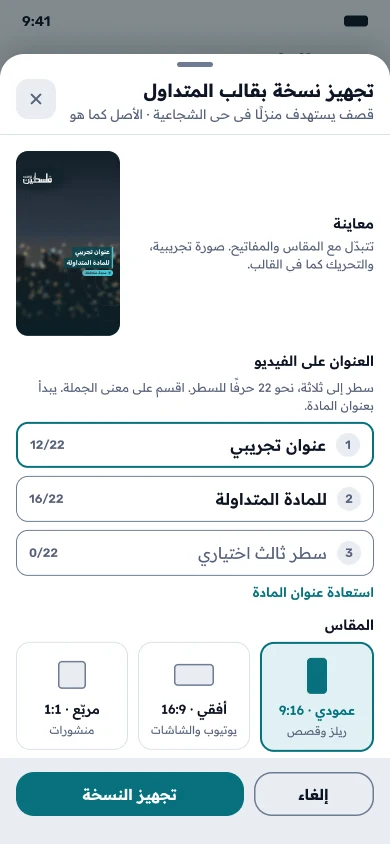
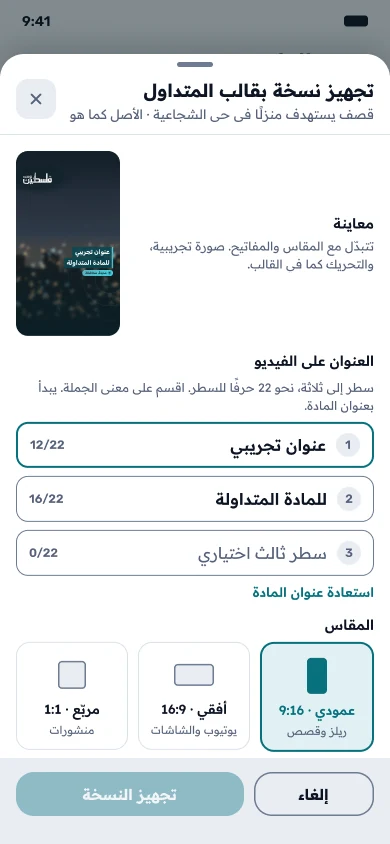
design: align copy-request frames with ADR 0091 and its contract
- The label is a required choice with no default; "Prepare copy" stays
  disabled until it is chosen.
- Three states as in MaterialRender (requested, ready, failed), failure
  reasons from the enum, and a download link valid for 10 minutes.
- New C11/C12 boards: blocked action and error states by error code.
- Spec: renders come from GET /materials/{id}/renders, the counter
  counts code points, and the strings table covers the new texts.

Claude-Session: https://claude.ai/code/session_01HY7py4Kwox1KypVxZuFGKP

Changed region(s): [[0.0308, 0.8934, 0.6462, 0.9858]]

diff --git a/docs/design/specs/web-v2.md b/docs/design/specs/web-v2.md
@@ -138,47 +138,87 @@
 
 ## نسخة بقالب المتداول (صفحة Figma `Web · طلب نسخة بقالب المتداول`)
 
-**مقترح يتوقف على ADR 0091 وتغيير العقد معه.** قرار المالك (2026-11-02): «نعم نربطه بخط الإنتاج». القالب نفسه موصوف في `video-template.md`، وهذا القسم يرسم طلبه من الويب وحالاته. أسطر العنوان والمعاينة في الإطارات نصّ تجريبي («عنوان تجريبي / للمادة المتداولة»، «مدينة، محافظة») لا عنوان المادة الحقيقي، لأن المعاينة تحمل الشعار. الطلب يرسله فرد من الطاقم يدويًا: لا يُصنع آليًا، وليس محرّرًا. الأسماء والعناوين في الإطارات عيّنات.
+**مقترح يطابق ADR 0091 وعقده (#469).** قرار المالك (2026-11-02): «نعم نربطه بخط الإنتاج». القالب نفسه في `video-template.md`، وهذا القسم يرسم طلبه من الويب وحالاته.
+
+- **من يطلب:** أدوار `supervisor` و`producer` و`editor_in_chief` ضمن نطاقها.
+- **كيف:** طلب صريح من الطاقم. لا يُطلق آليًا، وليس محرّرًا.
+- **النصوص في الإطارات:** أسطر العنوان والمعاينة نصّ تجريبي («عنوان تجريبي / للمادة المتداولة»، «مدينة، محافظة»)، لا عنوان المادة الحقيقي، لأن المعاينة تحمل الشعار.
 
 | الرمز | الشاشة | اللقطة |
 |---|---|---|
-| C1 | W2 وفيها بطاقة «الملفات» بالحالات الأربع، وزرّ «تجهيز نسخة بقالب المتداول» | `c1-material-copies` |
-| C2 | نافذة الطلب فوق W2 | `c2-request-dialog` |
-| C3 | النافذة، داكن | `c3-request-dialog-dark` |
+| C1 | W2 وفيها بطاقة «الملفات» بالحالات الثلاث، وزرّ «تجهيز نسخة بقالب المتداول» | `c1-material-copies` |
+| C2 | نافذة الطلب فوق W2، والوسم لم يُختر بعد فالإرسال معطَّل | `c2-request-dialog` |
+| C3 | النافذة، داكن، و«بلا وسم» مختار | `c3-request-dialog-dark` |
 | C4 | النافذة، إنجليزية فاتحة | `c4-request-dialog-en` |
 | C5 | C1 داكن | `c5-material-copies-dark` |
 | C6 | C1 إنجليزية داكنة | `c6-material-copies-en-dark` |
 | C7 | M2 على الهاتف ومعها بطاقة الملفات والزرّ | `c7-material-phone` |
 | C8 | ورقة الطلب من أسفل الشاشة | `c8-request-sheet-phone` |
-| C9 | الورقة بعد التمرير، داكن | `c9-request-sheet-phone-dark` |
+| C9 | الورقة بعد التمرير، داكن، والوسم مختار | `c9-request-sheet-phone-dark` |
 | C10 | الورقة، إنجليزية فاتحة | `c10-request-sheet-phone-en` |
+| C11 | حالات المنع والأخطاء | `c11-errors` |
+| C12 | حالات المنع والأخطاء، إنجليزية | `c12-errors-en` |
 
-**الزرّ** في آخر بطاقة «الملفات» (Outline)، تحت النسخ التي طُلبت. لا يدخل «الخطوة التالية»، لأن تلك البطاقة لسير المادة التحريري، والنسخة طلب جانبي لا يغيّر حالة المادة.
+**الزرّ** في آخر بطاقة «الملفات» (Outline)، تحت النسخ التي طُلبت. لا يدخل «الخطوة التالية»، لأن تلك البطاقة لسير المادة التحريري، والنسخة طلب جانبي لا يغيّر شيئًا من الحالات الثلاث. وحين لا تُتاح النسخة لا يختفي الزرّ: يظهر معطَّلًا، وتحته السبب (C11).
 
-**النافذة** (760 عرضًا على سطح المكتب، وورقة من أسفل الشاشة على الهاتف):
+**النافذة** (760 عرضًا على سطح المكتب، وورقة من أسفل الشاشة على الهاتف). حقولها هي `MaterialRenderRequest`:
 
-- **العنوان على الفيديو:** من سطر إلى ثلاثة، ولكل سطر عدّاد `17/22`. يبدأ بعنوان المادة مقسومًا عند حدود الكلمات، والمحرّر يعيد القسمة على المعنى. «استعادة عنوان المادة» تعيد القسمة الأولى. فوق 22 حرفًا يصير العدّاد بلون الخطر، ويتعطّل «تجهيز النسخة» حتى يُصلَح السطر، لأن السطر الطويل يفيض عن لوحه في القالب. حالة الفيض قاعدة غير مرسومة.
-- **المقاس:** ثلاث بطاقات، في كل منها شكل المقاس مصغّرًا: عمودي 9:16 (الافتراضي)، وأفقي 16:9، ومربّع 1:1. الفيديو يدخل الإطار كاملًا، والفراغ حوله بخلفية مموّهة من الفيديو نفسه، فلا قصّ.
-- **المعاينة:** القالب مصغّرًا بالعنوان والمكان المختارين، ويتبدّل مع المقاس والمفاتيح. الخلفية صورة تجريبية، لا إطار من المادة: المادة حسّاسة، ومعاينتها في النافذة مسار عرض جديد لا يلزم.
-- **إظهار المكان** (مشغَّل افتراضيًا) يكتب ما سيظهر، مثل «مدينة، محافظة». المصدر حقلا المادة `city` و`governorate`، فلا إحداثيات ولا تفصيل أدقّ (`CLAUDE.md` §5). وإن غاب أحد الحقلين يُعطَّل المفتاح، ويقول السطر تحته ما الناقص.
-- **وسم «مشاهد متداولة»** يقول للمشاهد إن الفيديو ليس من تصوير الشبكة، فيبدأ مشغَّلًا للمادة المتداولة وحدها. والمادة في العيّنة من مراسل، فهو مطفأ، والسطر تحته يقول السبب. **فجوة عقد:** معرفة أن المادة «متداولة» تحتاج حقلًا يقولها. إن لم يوجد، يبدأ المفتاح مطفأً ويقرّر المحرّر.
-- **ملاحظتان ثابتتان:**
-  - «الأصل لا يُمسّ: النسخة ملف جديد في ملفات المادة.»
-  - وللمادة الحسّاسة ملاحظة تحذير: «تُجهَّز محليًا وتبقى داخلية، وتمرّ بالبوابات نفسها.» النسخة ترث حساسية المادة وحقوقها، ولا تذهب إلى مزوّد خارجي (`CLAUDE.md` §5).
-- **الأفعال:** «تجهيز النسخة» (Solid) و«إلغاء». في العربية يقع الفعل الأول يسارًا، عكس ترتيبه في الإنجليزية. وسطر يقول: «يستغرق التجهيز نحو دقيقة، وتصلك إشارة حين تجهز.»
+- **العنوان على الفيديو (`title_lines`):**
+  - من سطر إلى ثلاثة، ولكل سطر عدّاد `12/22`.
+  - العدّاد يعدّ نقاط الترميز (`Array.from(line).length`)، كما يعدّها الخادم، لا وحدات UTF-16.
+  - تملأ الواجهة الحقول ابتداءً من عنوان المادة مقسومًا على الكلمات، والطاقم يعيد القسمة على المعنى. والخادم لا يقسم شيئًا.
+  - «استعادة عنوان المادة» تعيد القسمة الأولى.
+  - فوق 22 يصير العدّاد والإطار بلون الخطر، ويتعطّل «تجهيز النسخة» (C11). وتُرفض محارف الاتجاه والتحكم والمسافات في الطرفين بالقاعدة نفسها، فتُنظَّف عند اللصق.
+- **المقاس (`aspect`):** ثلاث بطاقات بشكل المقاس مصغّرًا: `vertical` 9:16 (الافتراضي)، و`horizontal` 16:9، و`square` 1:1. الفيديو يدخل الإطار كاملًا، والفراغ حوله بخلفية مموّهة من الفيديو نفسه، فلا قصّ.
+- **المعاينة:** القالب مصغّرًا بالعنوان والمكان، ويتبدّل مع المقاس والاختيارات. الخلفية صورة تجريبية، لا إطار من المادة، لأن المادة قد تكون حسّاسة، ولا يلزم مسار عرض جديد لها.
+- **إظهار المكان (`show_location`)** مشغَّل افتراضيًا، والسطر تحته يكتب ما سيظهر. النصّ يبنيه الخادم من حقلَي المادة (`city` و`governorate`)، فلا إحداثيات ولا تفصيل أدقّ (`CLAUDE.md` §5). وإن زاد على 44 حرفًا (`422 render_location_unusable`) يُعطَّل المفتاح، ويقول السبب (C11).
+- **وسم «مشاهد متداولة» (`label`): اختيار إلزامي بلا افتراض:**
+  - خياران لا يُختار أيٌّ منهما سلفًا: «بوسم «مشاهد متداولة»» (`circulated_footage`) و«بلا وسم» (`none`).
+  - و«تجهيز النسخة» معطَّل حتى يُختار أحدهما.
+  - الخطأ ممكن في الاتجاهين: وسم ما صوّرته الشبكة بأنه متداول، أو تقديم مشاهد طرف ثالث كأنها من تصوير الشبكة. والاختيار يُسجَّل مع الطالب.
+- **ملاحظة واحدة:** «الأصل لا يُمسّ: النسخة ملف جديد». وللمادة الحسّاسة: «تُجهَّز النسخة محليًا وتمرّ بالبوابات نفسها». النسخة ترث حساسية المادة وحقوقها، ولا تذهب إلى مزوّد خارجي، والنشر عبر بوابة ADR 0084 كما هي.
+- **الأفعال:** «تجهيز النسخة» (Solid) و«إلغاء». في العربية يقع الفعل الأول يسارًا، عكس ترتيبه في الإنجليزية. والسطر بجانبهما يقول ما ينقص قبل الإرسال («اختر الوسم أولًا»)، ثم «التجهيز نحو دقيقة، وتصلك إشارة حين تجهز».
 
-**الحالات في بطاقة «الملفات»:** تحت الأصل والنسخة الخفيفة مجموعة «نسخ بقالب المتداول» بوسم «داخلية» (موروث من المادة). كل نسخة صفّ فيه شكل مقاسها، وكل حالة كلمة وأيقونة ولون معًا.
+**الحالات في بطاقة «الملفات»:**
 
-| الحالة | الوسم | ما يقوله الصفّ | الفعل |
+- النسخ لا تأتي من `Material.files`، بل من `GET /materials/{id}/renders`. وتُعرض تحت الأصل والنسخة الخفيفة في مجموعة «نسخ بقالب المتداول»، بوسم «داخلية» موروث من المادة.
+- كل نسخة صفّ فيه شكل مقاسها، وكل حالة كلمة وأيقونة ولون معًا.
+
+| `state` | الوسم | ما يقوله الصفّ | الفعل |
 |---|---|---|---|
-| مطلوبة | `muted` «مطلوبة» | «في الطابور، طُلبت 14:56» | لا شيء |
-| تُجهَّز | `brand` «تُجهَّز» | «بدأت 14:55»، وشريط تقدّم يمتلئ من جهة البداية | لا شيء |
-| جاهزة | `ok` «جاهزة» | «جاهزة 14:52 · رابط موقَّع صالح ساعة» | «تنزيل»: يطلب رابطًا موقَّعًا جديدًا عند النقر، فلا يُخزَّن رابط في الصفحة |
-| تعذّرت | `danger` «تعذّرت» | السبب بكلمات، مثل «تعذّر فكّ ترميز المقطع 3. أعِد الطلب أو استبعده.» | «إعادة الطلب» بالمعاملات نفسها |
+| `requested` | `muted` «مطلوبة» | «في الطابور أو قيد التجهيز، طُلبت 14:56» | لا شيء |
+| `ready` | `ok` «جاهزة» | «جاهزة 14:52 · رابط التنزيل صالح 10 دقائق» | «تنزيل»: يطلب `download-url` عند النقر، فلا يُخزَّن رابط في الصفحة. وإن سقطت الحقوق يردّ `409 render_not_allowed` ويقول السبب |
+| `failed` | `danger` «تعذّرت» | السبب من `failure_reason` بكلمات (الجدول أدناه) | «طلب جديد» بالمعاملات نفسها، لأن `failed` نهائية |
 
-أسماء الحالات وأسباب الفشل ومدة الرابط مقترحة، ويحسمها ADR 0091 مع وكيل الوسائط. والنسبة المئوية غير مرسومة في الوسم، لأن «%» تنقلب داخل السطر العربي في Figma. يكفي الشريط، فإن أعطى العقد نسبة تُعرض معزولة الاتجاه (`<bdi>`).
+| `failure_reason` | ما يقوله الصفّ |
+|---|---|
+| `title_overflow` | «سطر في العنوان أطول من أن يتّسع في القالب. اختصره واطلب نسخة جديدة.» (المرسوم) |
+| `source_unavailable` | «تعذّر الوصول إلى الأصل. أعد الطلب بعد قليل.» |
+| `render_failed` | «تعذّر تجهيز النسخة. أعد الطلب، وإن تكرّر فأبلغ الدعم.» |
 
-**الإنجليزية:** الواجهة معكوسة كلها، ما عدا أسطر العنوان والمعاينة، فهي عربية لأن القالب عربي، ونسخته اللاتينية لم تُبنَ. **المفتاح** مكوّن جديد اسمه `Switch` (القيمة × الاتجاه). مساره `action/primary` مشغَّلًا و`border/edge` مطفأً، ومقبضه في العربية يسارًا حين يُشغَّل.
+**المنع والأخطاء (C11 وC12):** السبب من رمز الخطأ ومن `details.failed` في ردّ 409.
+
+| الرمز | ما تقوله الواجهة |
+|---|---|
+| `409 render_not_allowed` · `editorial_state` | «تُتاح بعد قبول المادة تحريريًا»، ومعها الحالة الآن |
+| `409 render_not_allowed` · `source` | «تُتاح حين يصل الأصل ويُتحقَّق من بصمته». والأصل الأطول من 5 دقائق لا يُجهَّز الآن |
+| `409 render_not_allowed` · `rights_state` | «لا تُجهَّز نسخ لمادة حقوقها محجوبة أو مسحوبة»، وتتوقف روابط النسخ القائمة |
+| `409 render_limit_reached` | «في الطابور ثلاث نسخ لهذه المادة. انتظر حتى تجهز إحداها أو تتعذّر» |
+| `422 render_location_unusable` | مفتاح المكان معطَّل: «المدينة والمحافظة أطول من 44 حرفًا. صحّح حقلي المادة، أو اطلب النسخة بلا مكان» |
+| `422` تحقّق السطر | يُمنع في الواجهة قبل الإرسال: عدّاد أحمر، و«تجهيز النسخة» معطَّل |
+
+**الأسئلة المفتوحة لـ ADR 0091:**
+
+- **حالة «تُجهَّز» المستقلة:** يرى الطالب بها أن العمل بدأ. والعقد اليوم ثلاث حالات، فالإطارات تضمّها إلى «مطلوبة». إن أُضيفت `rendering` فهي صفّ رابع بشريط تقدّم يمتلئ من جهة البداية.
+- **النسبة المئوية:** غير مرسومة، لأن «%» تنقلب داخل السطر العربي في Figma. تُعرض معزولة الاتجاه (`<bdi>`) إن أعطاها العقد.
+
+**الإنجليزية:** الواجهة معكوسة كلها، ما عدا أسطر العنوان والمعاينة، فهي عربية لأن القالب عربي، ونسخته اللاتينية سؤال مفتوح في ADR 0091.
+
+**المفتاح** مكوّن جديد اسمه `Switch` (القيمة × الاتجاه):
+
+- مساره `action/primary` مشغَّلًا و`border/edge` مطفأً.
+- مقبضه في العربية يسارًا حين يُشغَّل.
+- والوسم ليس مفتاحًا: اختياره بين خيارين بلا افتراض.
 
 | المفتاح | العربية | English |
 |---|---|---|
@@ -189,15 +229,26 @@
 | `derivative.template.ratio` | المقاس | Aspect ratio |
 | `derivative.template.ratioHint` | الفيديو كاملًا داخل الإطار، والفراغ حوله بخلفية مموّهة منه. لا قصّ. | The whole video fits the frame on a blurred fill. No cropping. |
 | `derivative.template.showLocation` | إظهار المكان | Show location |
-| `derivative.template.circulatedLabel` | وسم «مشاهد متداولة» | “Circulated footage” label |
-| `derivative.template.originalNote` | الأصل لا يُمسّ: النسخة ملف جديد في ملفات المادة. | The original is untouched: the copy is a new file. |
-| `derivative.template.sensitiveNote` | المادة حسّاسة: تُجهَّز محليًا وتبقى داخلية، وتمرّ بالبوابات نفسها. | Sensitive: prepared locally, stays internal, same gates. |
+| `derivative.template.label` | وسم «مشاهد متداولة» (اختيار إلزامي) | “Circulated footage” label (required) |
+| `derivative.template.labelHint` | اختر لكل نسخة. ضعه حين لم تصوّر الشبكة المشاهد، ولا تضعه حين صوّرتها؛ والخطأ في الاتجاهين يضلّل المشاهد. | Choose for every copy. Use it when the network did not film the footage; leave it off when it did. Both mistakes mislead the viewer. |
+| `derivative.template.labelWith` | بوسم «مشاهد متداولة» | With the label |
+| `derivative.template.labelNone` | بلا وسم | No label |
+| `derivative.template.chooseLabelFirst` | اختر الوسم أولًا. | Choose the label first. |
+| `derivative.template.note` | الأصل لا يُمسّ: النسخة ملف جديد. | The original is untouched: the copy is a new file. |
+| `derivative.template.noteSensitive` | والمادة حسّاسة، فتُجهَّز النسخة محليًا وتمرّ بالبوابات نفسها. | This material is sensitive, so the copy is prepared locally and passes the same gates. |
 | `derivative.template.submit` | تجهيز النسخة | Prepare copy |
 | `derivative.state.requested` | مطلوبة | Requested |
-| `derivative.state.rendering` | تُجهَّز | Rendering |
 | `derivative.state.ready` | جاهزة | Ready |
 | `derivative.state.failed` | تعذّرت | Failed |
-| `derivative.retry` | إعادة الطلب | Retry |
+| `derivative.newRequest` | طلب جديد | New request |
+| `derivative.failure.title_overflow` | سطر في العنوان أطول من أن يتّسع في القالب. اختصره واطلب نسخة جديدة. | A title line is too wide for the template. Shorten it and request a new copy. |
+| `derivative.failure.source_unavailable` | تعذّر الوصول إلى الأصل. أعد الطلب بعد قليل. | The original could not be reached. Request again shortly. |
+| `derivative.failure.render_failed` | تعذّر تجهيز النسخة. أعد الطلب، وإن تكرّر فأبلغ الدعم. | The copy could not be prepared. Request again, and report it if it repeats. |
+| `derivative.blocked.editorial_state` | تُتاح بعد قبول المادة تحريريًا. | Available once the material is accepted. |
+| `derivative.blocked.source` | تُتاح حين يصل الأصل ويُتحقَّق من بصمته. | Available once the original arrives and its fingerprint is verified. |
+| `derivative.blocked.rights_state` | لا تُجهَّز نسخ لمادة حقوقها محجوبة أو مسحوبة. | No copies for material whose rights are blocked or withdrawn. |
+| `derivative.blocked.limit` | في الطابور ثلاث نسخ لهذه المادة. انتظر حتى تجهز إحداها أو تتعذّر. | Three copies of this material are queued. Wait until one is ready or fails. |
+| `derivative.blocked.location` | المدينة والمحافظة أطول من 44 حرفًا. صحّح حقلي المادة، أو اطلب النسخة بلا مكان. | The city and governorate are longer than 44 characters. Fix the material fields, or request the copy without a location. |
 
 ## النصوص بالإنجليزية (المتجر والرفع)
 
